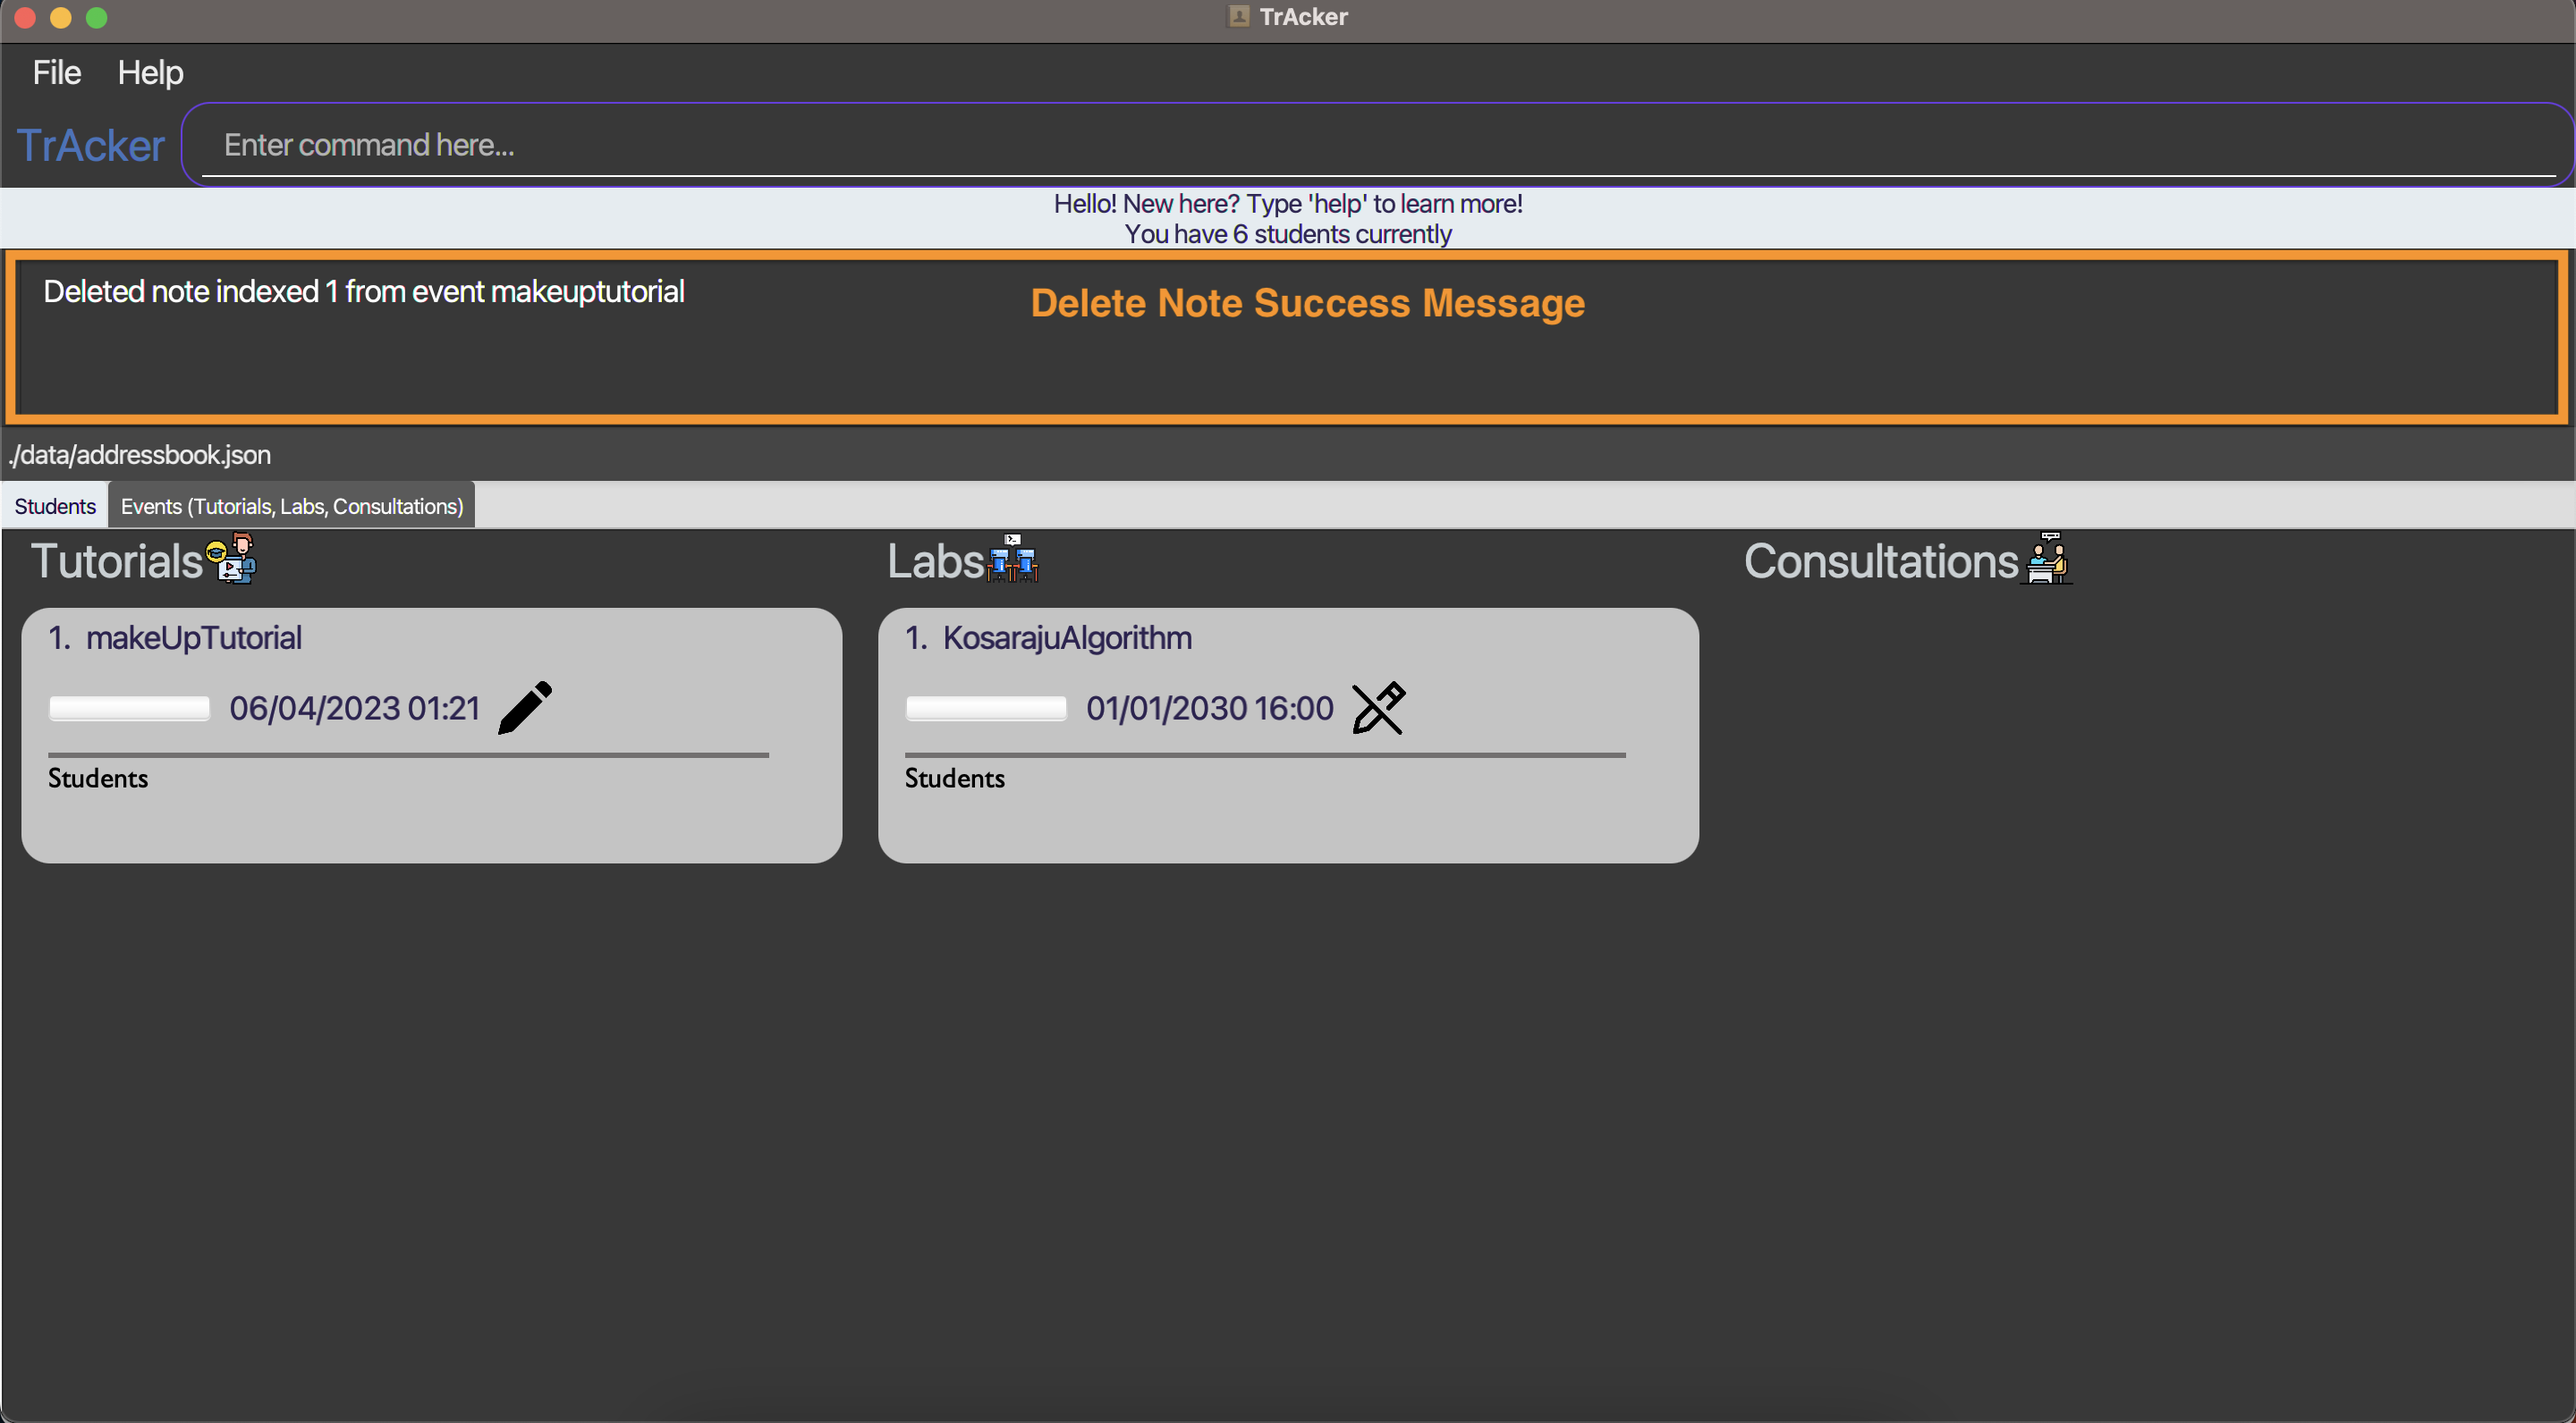
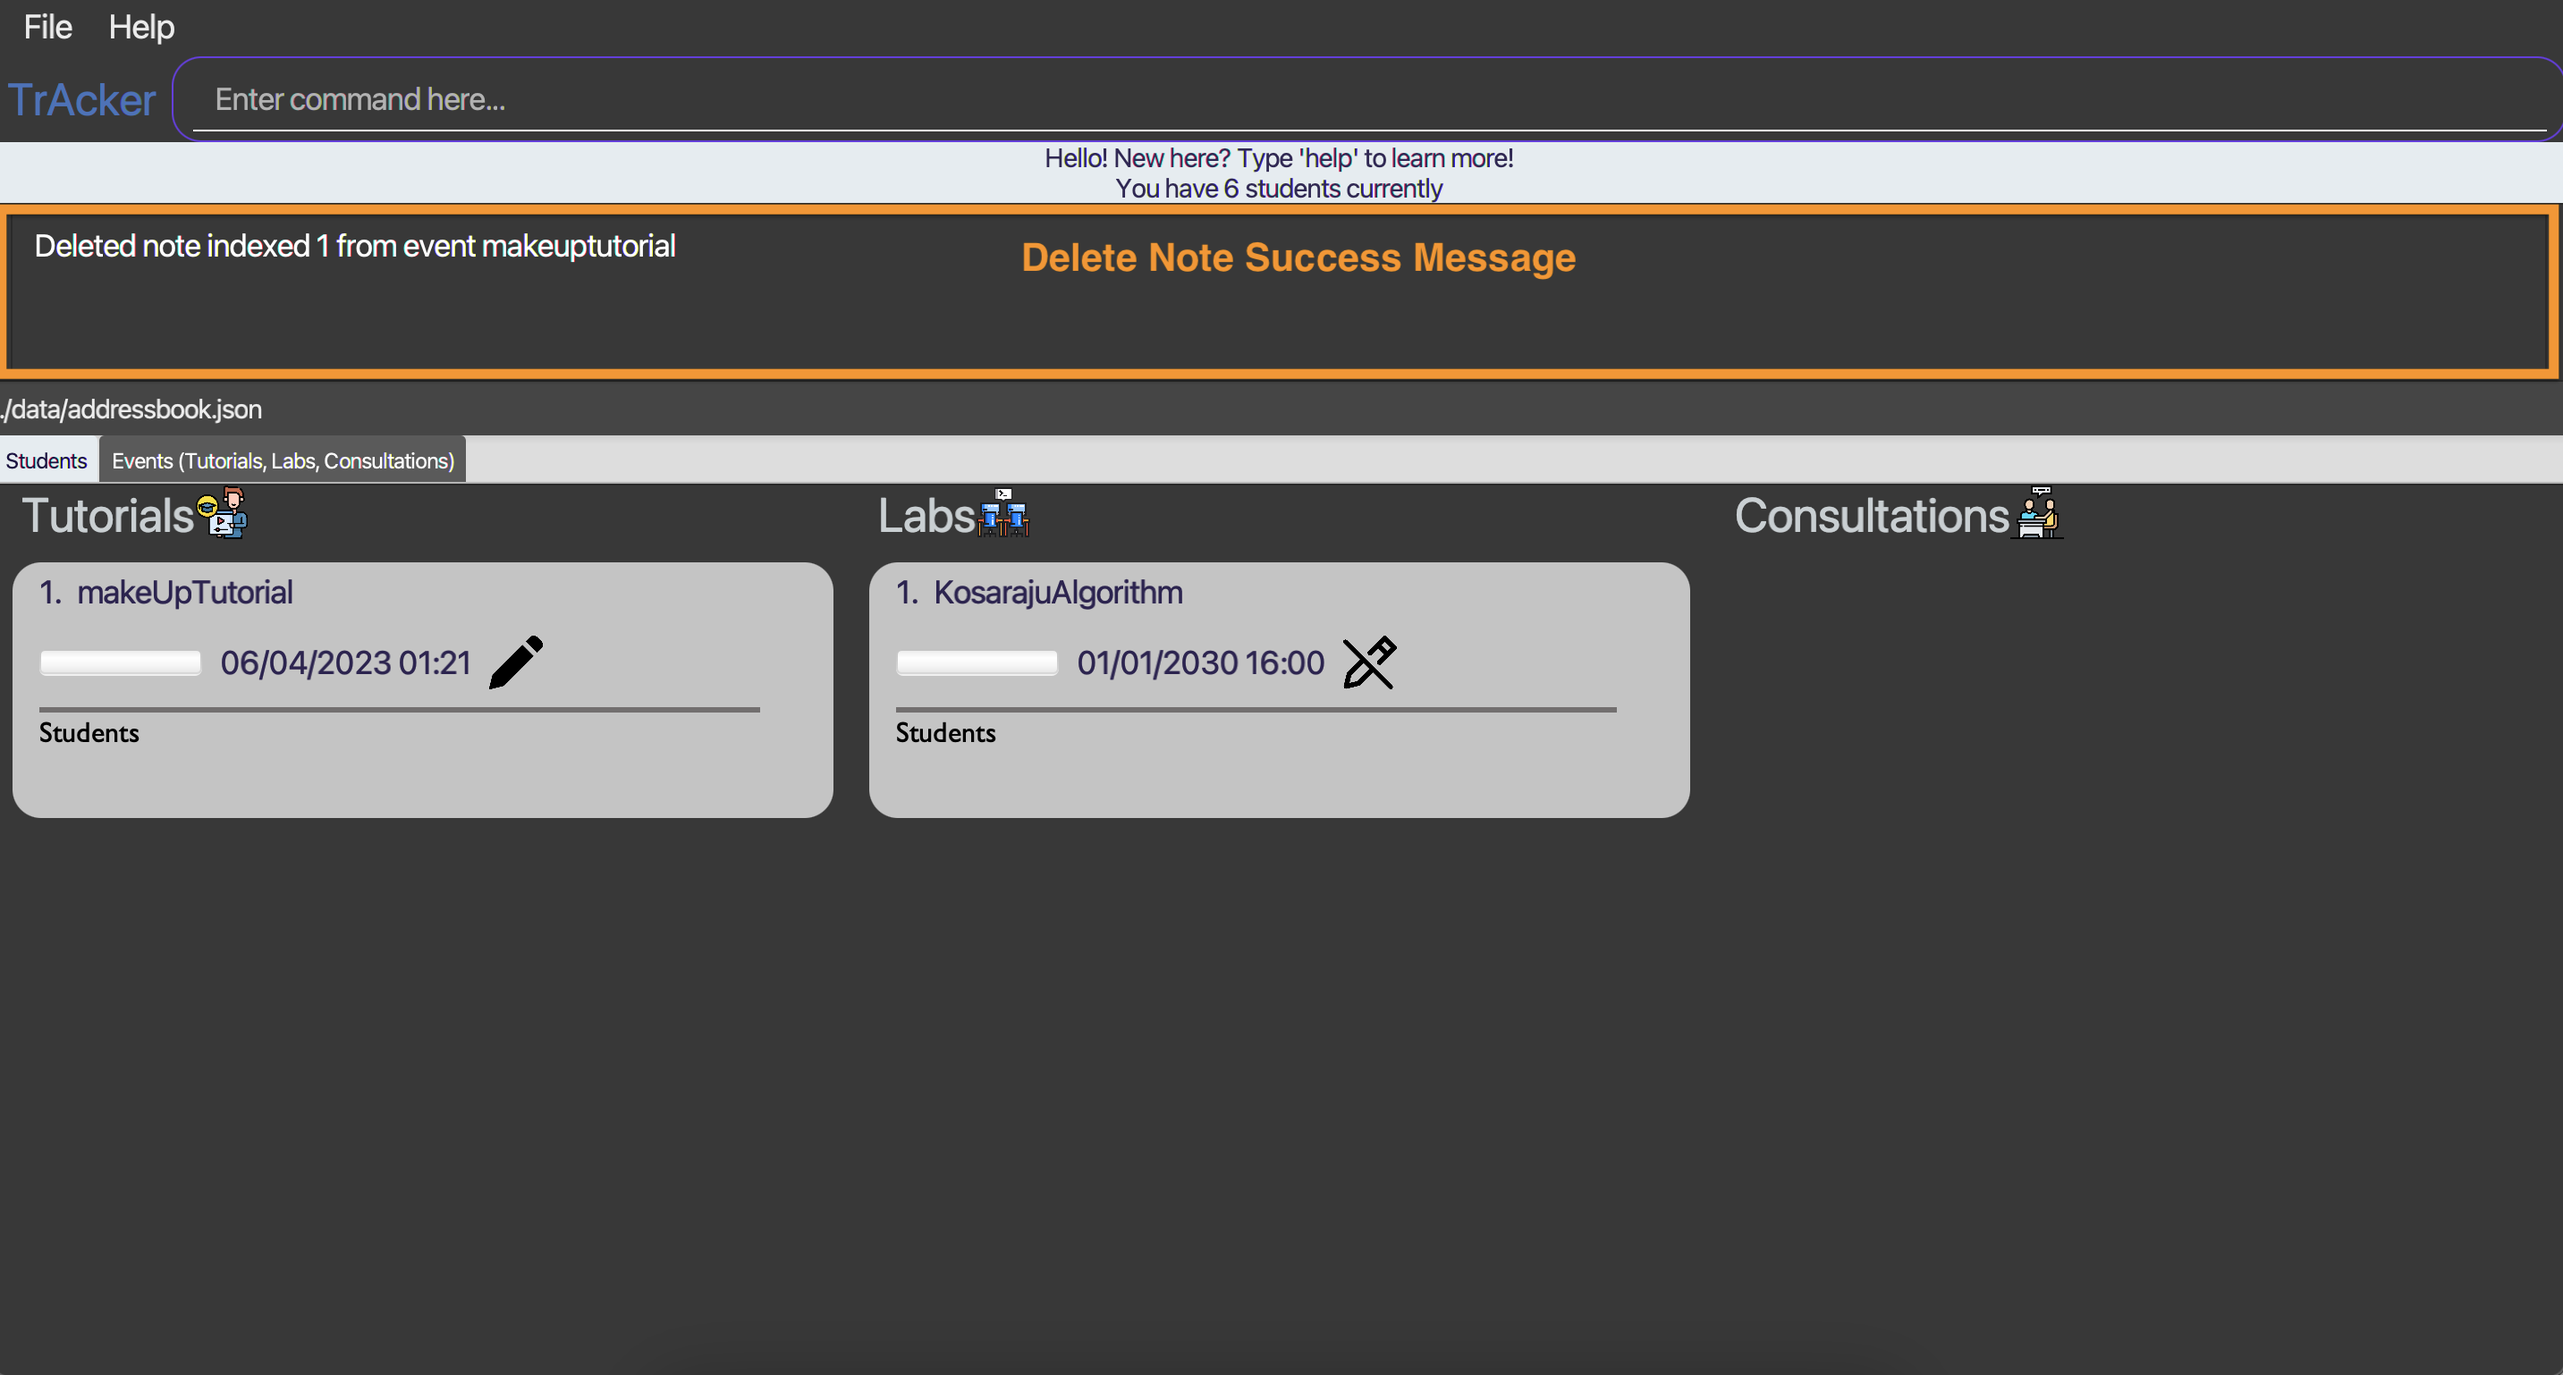
Edit user guide images

Changed region(s): [[0.0, 0.0, 1.0, 1.0]]

diff --git a/docs/UserGuide.md b/docs/UserGuide.md
@@ -44,7 +44,7 @@ title: User Guide
 4. Open a command terminal, `cd` into the folder you put the jar file in, and use the `java -jar TrAcker.jar` command to run the application.<br>
    A GUI similar to below should appear in a few seconds. Note how the app contains some sample data.<br>
 
-  <img src="images/Ui.png" width="750" height="450" />
+  <img src="images/Ui.png" width="850" height="450" />
 
 --------------------------------------------------------------------------------------------------------------------
 
